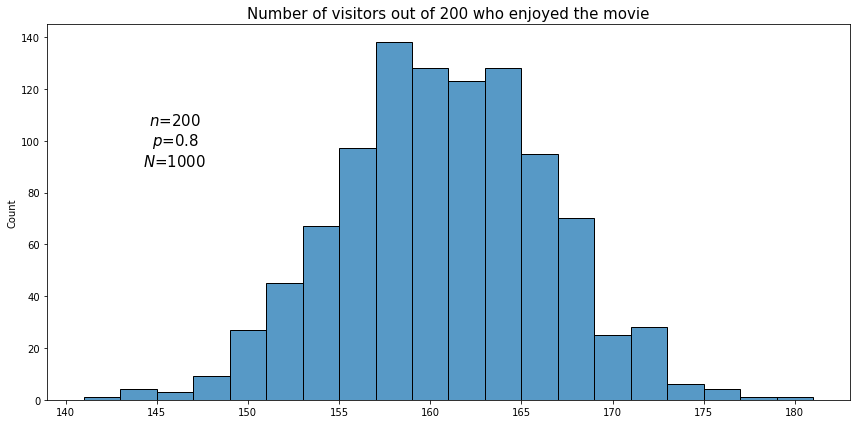
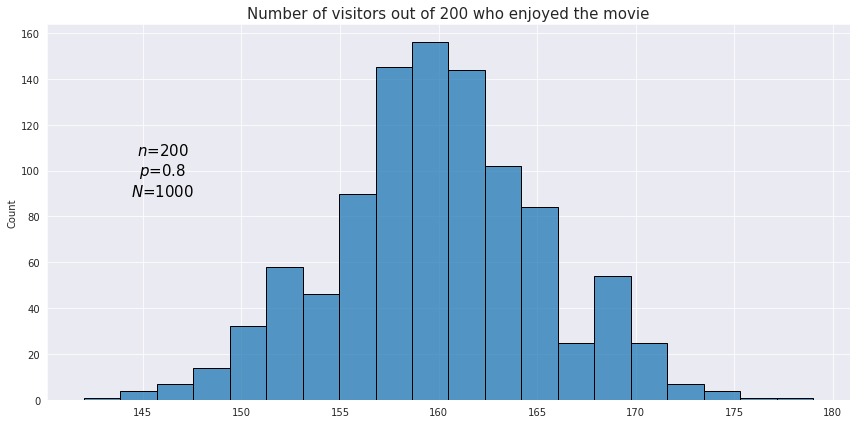
added poisson distribution and upgraded binomial distribution

diff --git a/_posts/2021-03-27-statistical-distributions.md b/_posts/2021-03-27-statistical-distributions.md
@@ -3,8 +3,8 @@ layout: single
 title: "Statistical distributions"
 description: In this post I described all essential stuff statistical distributions
 category: "Probability"
-tags: probability-distribution normal-distribution statistics z-score z-table six-sigma z-value central-limit-theorem Student's-distribution t-distribution probability-mass-function probability-density-function PDF degrees-of-freedom chi-square-distribution binomial-distribution Bernoulli-trial
-date: 2021-03-27
+tags: probability-distribution normal-distribution statistics z-score z-table six-sigma z-value central-limit-theorem Student's-distribution t-distribution probability-mass-function probability-density-function PDF degrees-of-freedom chi-square-distribution binomial-distribution Bernoulli-trial geometric-distribution exponential-distribution poisson-distribution uniform-distribution
+date: 2021-03-28
 ---
 
 A set of discrete values or a range of continuous values of a random variable is characterized by a certain probability distribution. In statistics various distributions arise in the context of estimating probabilities of random values or events.
@@ -64,23 +64,19 @@ Similarly to $z$-scores for the normal distribution, for $t$-distribution there 
 
 ## Binomial distribution
 
-This is a discrete probability distribution for cases where each observation may have one of the two possible outcomes. These observations are known as Bernoulli trials or experiments and their end results are restricted to only two possible outcomes. The most referred example would be tossing of a coin and expecting the outcome to be either heads or tails. However in fact any variable may be translated into a Bernouli trial, even a continuous one. For example we may consider one of the possible outcomes as a success, and all the rest as a failure. For continuous variables we may specify a threshold, and then consider the outcomes as crossing or not crossing of it.
+This distribution is used for getting probabilities in a discrete random variable which consists of Bernoulli trials (or experiments) - observations the end results of which are restricted to only two possible outcomes. The most referred example of a Bernoulli trial would be tossing of a coin and expecting the outcome to be either heads or tails. However in fact any variable may be translated into a Bernouli trial, even a continuous one. For example we may consider one of the possible outcomes as a success, and all the rest as a failure. For continuous variables we may specify a threshold, and then consider the outcomes as crossing or not crossing of it.
 
-Binomial distribution provides the expected number of successes in realizations of $n$ Bernoulli trials using prior knowledge of probability of success in a single experiment. The assumption of this type of distribution are independence of each observation and the same probability of success for each individual Bernoulli trial.
-
-Let's set the value of success as 1, and the value of failure as 0. Then the probability of 1 is $p$ while the probability of 0 is $(1-p)$. The weighted average of a single experiment will be:
+A random variable follows binomial distribution if it represents the number of successes in a sequence of Bernoulli experiments. The probability mass function is constructed using the knowledge of probability of success in a single experiment: 
 
 &nbsp;&nbsp;&nbsp;&nbsp;
-$E(x) = 1*p+0(1-q) = p$
+$f(x; p) = {\binom{n}{x}}p^{x}(1-p)^{n-x}$
 
-From this the expected value (or the mean) of the distribution is simply $np$.
-
-Now let's recall that the variance measures the squared distance between the observed value of a random variable and its expected value. For a successful outcome of a Bernoulli trial where we have 1, the distance to the mean ($p$) will be $(1-p)$. SImilarly, for the unsuccessful outcome where we have 0 the distance to the mean will be $(0-p)$. Then the weighted average of these two will be:
+where $p$ is a probability of success in a single experiment, $k$ is the number of expected successes, $n$ is the number or experiments, and where
 
 &nbsp;&nbsp;&nbsp;&nbsp;
-$Var(x) = p(1-p)^2+(1-p)(0-p)^2 = p(1-p)^2+(1-p)p^2 = p(1-p)(1-p+p) = p(1-p)$
+$\binom{n}{x} = \frac{n!}{x!(n-x)!}$ 
 
-Therefore the variance for the binomial distribution is $np(1-p)$.
+The assumptions of this type of distribution are independence of each observation and the same probability of success for each individual Bernoulli trial.
 
 In order to achieve better accuracy with binomial distribution testing the whole experiment may be performed multiple times (or the observations may be resampled with replacement). For example we want to estimate how well the audience likes a new movie. The outcome for each individual cinema visitor is viewed as a Bernoulli trial while the number of satisfied visitors after a session is the result of a single binomial test. Since this measure itself may depend on many factors the results after each session may be quite different. In order to understand the average percentage of the audience satisfaction it may be useful to visualize with a histogram the total number of outcomes for the binomial tests across all sessions. Below is a plot displaying distribution of binomial test
 results for 1000 sessions each containing 200 visitors.
@@ -88,3 +84,66 @@ results for 1000 sessions each containing 200 visitors.
 ![](/assets/images/probability/binomial_distribution.png){: .align-center}
 
 As we see just like in the normal distribution the resulting values are concentrated around a certain central value - the mean of the binomial distribution. In fact, if the number of tests is reasonably high (at least both $np$ and $n(1-p)$ are greater than 5) then the binomial distribution may be approximated with the normal distribution.
+
+Let's set the value of success as 1, and the value of failure as 0. Then the probability of 1 is $p$ while the probability of 0 is $(1-p)$. The weighted average of a single experiment will be:
+
+&nbsp;&nbsp;&nbsp;&nbsp;
+$E(x) = 1 \cdot p+0 \cdot (1-q) = p$
+
+From this the expected value (or the mean) of the distribution is simply $np$.
+
+Now let's recall that the variance measures the sum of squared distances between the observed and expected values of a random variable. For a successful outcome of a Bernoulli trial where we have 1, the distance to the mean ($p$) will be $(1-p)$. SImilarly, for the unsuccessful outcome where we have 0 the distance to the mean will be $(0-p)$. Then the weighted average of these two will be:
+
+&nbsp;&nbsp;&nbsp;&nbsp;
+$Var(x) = p(1-p)^2+(1-p)(0-p)^2 = p(1-p)^2+(1-p)p^2 = p(1-p)(1-p+p) = p(1-p)$
+
+Therefore the variance for the binomial distribution is $np(1-p)$.
+
+## Geometric distribution
+
+This is a type of distribution which is used to model the number of failures in sequences of Bernoulli trials before the first success. For example we want to know how many customers a retail shop has to engage with before the first sale is made. 
+
+![](/assets/images/probability/geometric_distribution.png){: .align-center}
+
+The mean of the distribution is defined as $\frac{1-p}{p}$, and the variance is $\frac{1-p}{p^2}$.
+
+## Uniform distribution
+
+This type of distribution describes processes where every posible outcome has the same chance of occuring. An example of a discrete uniform distribution is rolling of a dice once and expecting any of the possible 6 values. Random number generation is an example of a continuous uniform distribution.
+
+![](/assets/images/probability/uniform_distribution.png){: .align-center}
+
+The expected value of the uniform distribution is defined as the center of the range over which the value is distributed $\frac{a+b}{2}$, while the variance is calculated as $\frac{(b-a)^2}{12}$.
+
+## Poisson distribution
+
+This distribution is used to model the number of events which occur during a fixed period of time, for example the number of customer complaints per month or the number of trains arriving during a certain hour. Similarly to the binomial distribution all occurrences of events are considered random and independent, so the occurrence of one event does not affect probability of another event.
+
+The probability mass function of the Poisson distribution uses prior knowledge of the average number of occurrences per period - parameter $\lambda$. This parameter can actually be derived from the binomial distribution as $\lambda = np$, where $p$ is the probability of a single event occurrence, and $n$ is the number of Bernoulli trials. Both mean and variance of a random variable which follows the Poisson distribution are equal to $\lambda$, and this is the formula of its PMF:
+
+&nbsp;&nbsp;&nbsp;&nbsp;
+$f(x; \lambda) = \frac{\lambda^{x}e^{-\lambda}}{x!}$
+
+For example, a person receives on average 5 promotional emails from different sellers. The probability of receiveng 3 emails would be
+
+&nbsp;&nbsp;&nbsp;&nbsp;
+$f(3; 5) = \frac{5^{3}e^{-5}}{3!} \approx 0.14$
+
+Here is an examle of an observed distribution of the number of received emails for a sample of 2000 users.
+
+![](/assets/images/probability/poisson_distribution.png){: .align-center}
+
+## Chi-square distribution
+
+In a nutshell the chi-square distribution is the distribution of sum of squred values sampled from a normally distributed variable.
+
+&nbsp;&nbsp;&nbsp;&nbsp;
+$\chi_k^{2} = \sum_{i=1}^k Z_i$
+
+where $Z_i$ is a randomly drawn value from a normal distribution, and $k$ is the number of [degrees of freedom]({{ site.baseurl }}{% link _posts/2021-03-19-degrees-of-freedom.md %}), which is also equal to the number drawn values.
+
+Below is a vizualization of the probability density function of the chi-square distribution for a different number of degrees of freedom if the values are drawn from the normal distribution with the mean value 0, and the standard deviation 1.
+
+![](/assets/images/probability/chi_squared_distributions.png){: .align-center}
+
+Notice that since we are squaring the values there are no negative values in chi-square distribution. If we draw only one value, then there is a high probability that this value is close to 0, since the normal distribution is centered around 0. Therefore the shape of the PDF of chi-square distribution with 1 degree of freedom is heavily skewed towards zero, while the probability of getting bigger numbers becomes minuscule. If we draw more and more numbers increasing the number of degrees of freedom, the sum of squared values causes the center of the PDF of chi-square dsitribution to be shifted to the right.

diff --git a/_posts/2021-03-22-chi-square-test.md b/_posts/2021-03-22-chi-square-test.md
@@ -15,20 +15,5 @@ Each observation may be viewed separately for each category as a realization of 
 
 Pearson's chi-square test uses a certain statistic which is approximated with the chi-square distribution, so first let's take a look at what this distribution is. 
 
-## Chi-square distribution
-
-In a nutshell the chi-square distribution is the distribution of sum of squred values sampled from a [normally distributed]({{ site.baseurl }}{% link _posts/2021-03-27-statistical-distributions.md %}) variable.
-
-&nbsp;&nbsp;&nbsp;&nbsp;
-$\chi_k^{2} = \sum_{i=1}^k Z_i$
-
-where $Z_i$ is a randomly drawn value from a normal distribution, and $k$ is the number of [degrees of freedom]({{ site.baseurl }}{% link _posts/2021-03-19-degrees-of-freedom.md %}), which is also equal to the number drawn values.
-
-Below is a vizualization of the probability density function of the chi-square distribution for a different number of degrees of freedom if the values are drawn from the normal distribution with the mean value 0, and the standard deviation 1.
-
-![](/assets/images/probability/chi_squared_distributions.png){: .align-center}
-
-Notice that since we are squaring the values there are no negative values in chi-square distribution. If we draw only one value, then there is a high probability that this value is close to 0, since the normal distribution is centered around 0. Therefore the shape of the PDF of chi-square distribution with 1 degree of freedom is heavily skewed towards zero, while the probability of getting bigger numbers becomes minuscule. If we draw more and more numbers increasing the number of degrees of freedom, the sum of squared values causes the center of the PDF of chi-square dsitribution to be shifted to the right.
-
 ## Goodness of fit test
 
